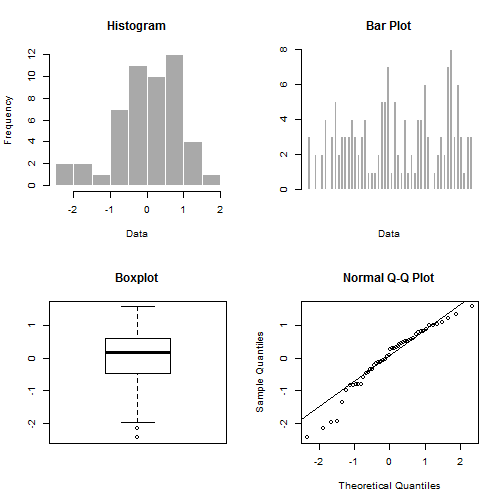
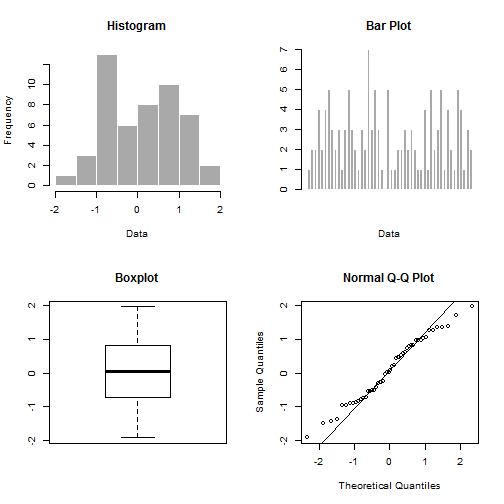
Commit!

diff --git a/index.html b/index.html
@@ -115,13 +115,23 @@
     <h2>Conclusion</h2>
   </hgroup>
   <article data-timings="">
-    <p>The App makes the Exploratory Data Analysis easier, as its just a click away. </p>
+    <p>The App makes the Exploratory Data Analysis easier, as its just a click away. Moreover, visualization of data, outlier detection and normality testing are the common requirements of any further statistical modeling. Hence, before using any data for Modeling and Prediction, this App can be used as a Pre-Processing Tool for it.</p>
 
-<p>Moreover, visualization of data, outlier detection and normality testing are the common requirements of any further statistical modeling. Hence, before using any data for Modeling and Prediction, this App can be used as a Pre-Processing Tool for it.</p>
+<p>Please try out the App online. Thanks for your time in going through the presentation. I hope you appreciate my efforts.</p>
 
-<p>Please try out the App online. </p>
+<h3>Appendix</h3>
 
-<p>Thanks for your time in going through the presentation. I hope you appreciate my efforts.</p>
+<p>The R code which gets evaluated in order to get the plots on slide 4 is as follows. I had put echo = FALSE there to display only the plots. </p>
+
+<pre><code class="r">x&lt;-rnorm(50);y&lt;-rpois(50,3)
+par(mfrow=c(2,2))
+hist(x, col = &#39;darkgray&#39;, border = &#39;white&#39;, main=&quot;Histogram&quot;, xlab= &quot;Data&quot;)
+barplot(y, col = &#39;darkgray&#39;, border = &#39;white&#39;, main=&quot;Bar Plot&quot;, xlab= &quot;Data&quot;)
+boxplot(x, main=&quot;Boxplot&quot;)
+qqnorm(x);qqline(x)
+</code></pre>
+
+<p><img src="assets/fig/unnamed-chunk-2.png" alt="plot of chunk unnamed-chunk-2"> </p>
 
   </article>
   <!-- Presenter Notes -->

diff --git a/index.md b/index.md
@@ -70,10 +70,21 @@ Some Sample Plots produced by the App are as follows:
 
 ## Conclusion
 
-The App makes the Exploratory Data Analysis easier, as its just a click away. 
+The App makes the Exploratory Data Analysis easier, as its just a click away. Moreover, visualization of data, outlier detection and normality testing are the common requirements of any further statistical modeling. Hence, before using any data for Modeling and Prediction, this App can be used as a Pre-Processing Tool for it.
 
-Moreover, visualization of data, outlier detection and normality testing are the common requirements of any further statistical modeling. Hence, before using any data for Modeling and Prediction, this App can be used as a Pre-Processing Tool for it.
+Please try out the App online. Thanks for your time in going through the presentation. I hope you appreciate my efforts.
 
-Please try out the App online. 
+### Appendix
 
-Thanks for your time in going through the presentation. I hope you appreciate my efforts.
+The R code which gets evaluated in order to get the plots on slide 4 is as follows. I had put echo = FALSE there to display only the plots. 
+
+```r
+x<-rnorm(50);y<-rpois(50,3)
+par(mfrow=c(2,2))
+hist(x, col = 'darkgray', border = 'white', main="Histogram", xlab= "Data")
+barplot(y, col = 'darkgray', border = 'white', main="Bar Plot", xlab= "Data")
+boxplot(x, main="Boxplot")
+qqnorm(x);qqline(x)
+```
+
+![plot of chunk unnamed-chunk-2](assets/fig/unnamed-chunk-2.png) 
